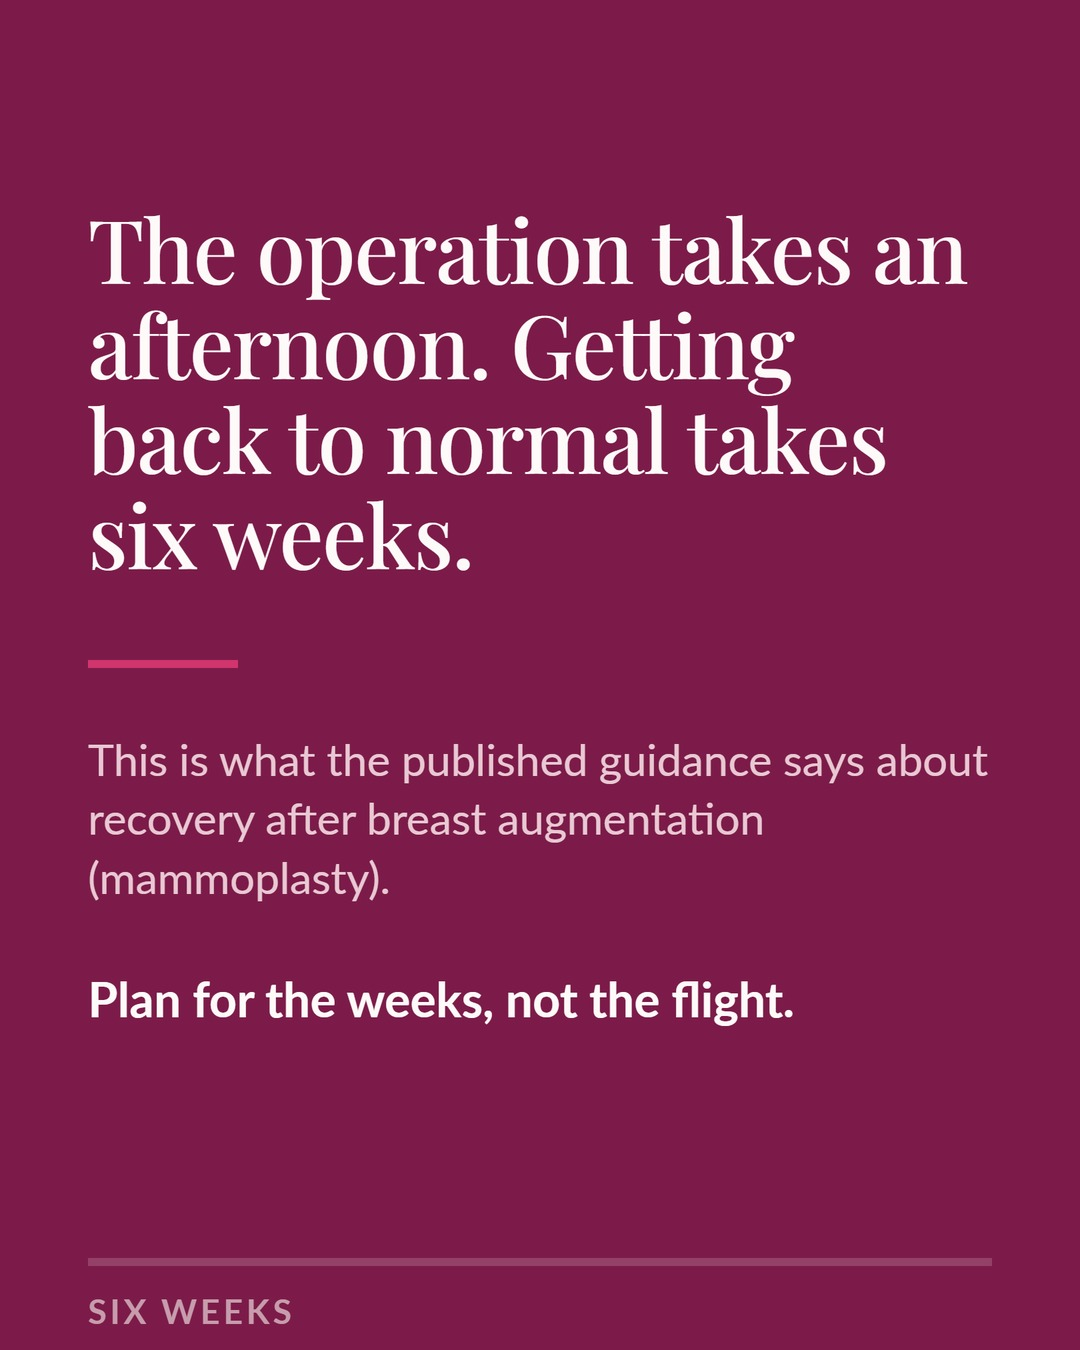
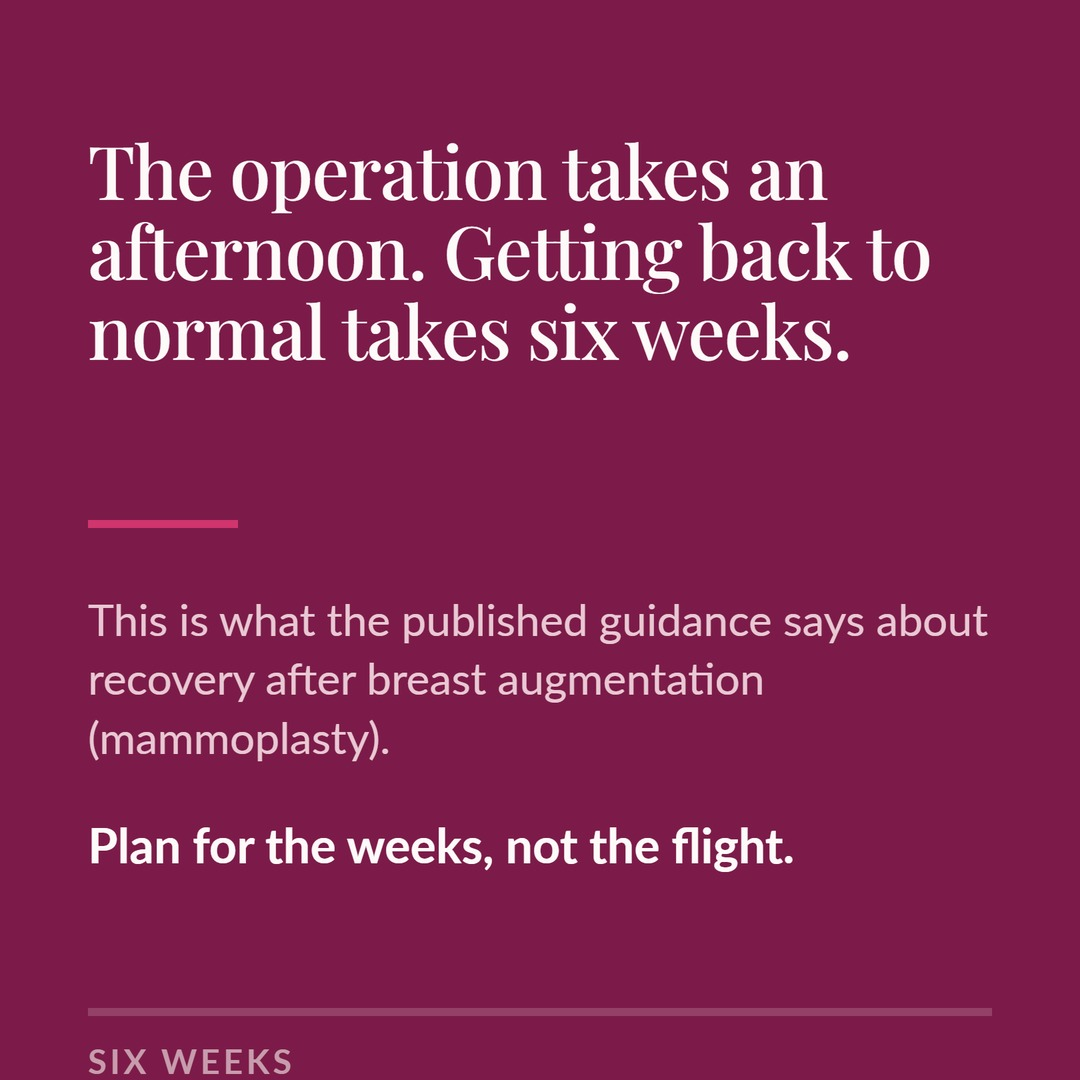
All three posts at 1:1, and post 02 rebuilt
Instagram square is the ratio every CBC post now uses, so the three decks are
re-exported at 1080x1080 rather than 1080x1350. Post 02 is a different post
than it was: the surgeon-volume statistic is replaced by the bundled-procedure
offer, which is prohibited in Australian cosmetic surgery advertising and is
still in almost every brochure in this corridor.

README now says what the folders hold and where the files come from, so
whoever is posting does not have to ask.

diff --git a/README.md b/README.md
@@ -1,2 +1,28 @@
 # cbc-social-assets
-Social Media Images
+
+Rendered Instagram cards for **@crossborder.cosmetics**, published here so they
+have a public HTTPS URL. Nothing else lives in this repository.
+
+All files are **1080 × 1080** JPEG — square, which is the ratio every CBC post
+uses. Post them in slide order; Instagram re-serves a carousel starting from
+card 2, so the order carries meaning.
+
+| Folder | Post | Slides |
+| --- | --- | --- |
+| `post-01/` | Six questions to ask before you fly to Thailand for surgery | 8 |
+| `post-02/` | Two procedures, one price — the offer that is prohibited | 1 |
+| `post-03/` | Recovery after breast augmentation, week by week | 8 |
+
+## Getting the files
+
+**Laptop** — green **Code** button → **Download ZIP** takes the lot in one go.
+
+**Phone** — open a slide, long-press, save. That is eight taps per carousel, so
+the ZIP on a laptop and then AirDrop or Drive to the phone is usually less work.
+
+## These are outputs, not sources
+
+Every image here is generated from an HTML renderer in the CBC vault
+(`tools/brand/`), which reads one locked type scale. Edit the renderer and
+re-export; do not retouch a JPEG in this repository, because the next export
+will overwrite it.
